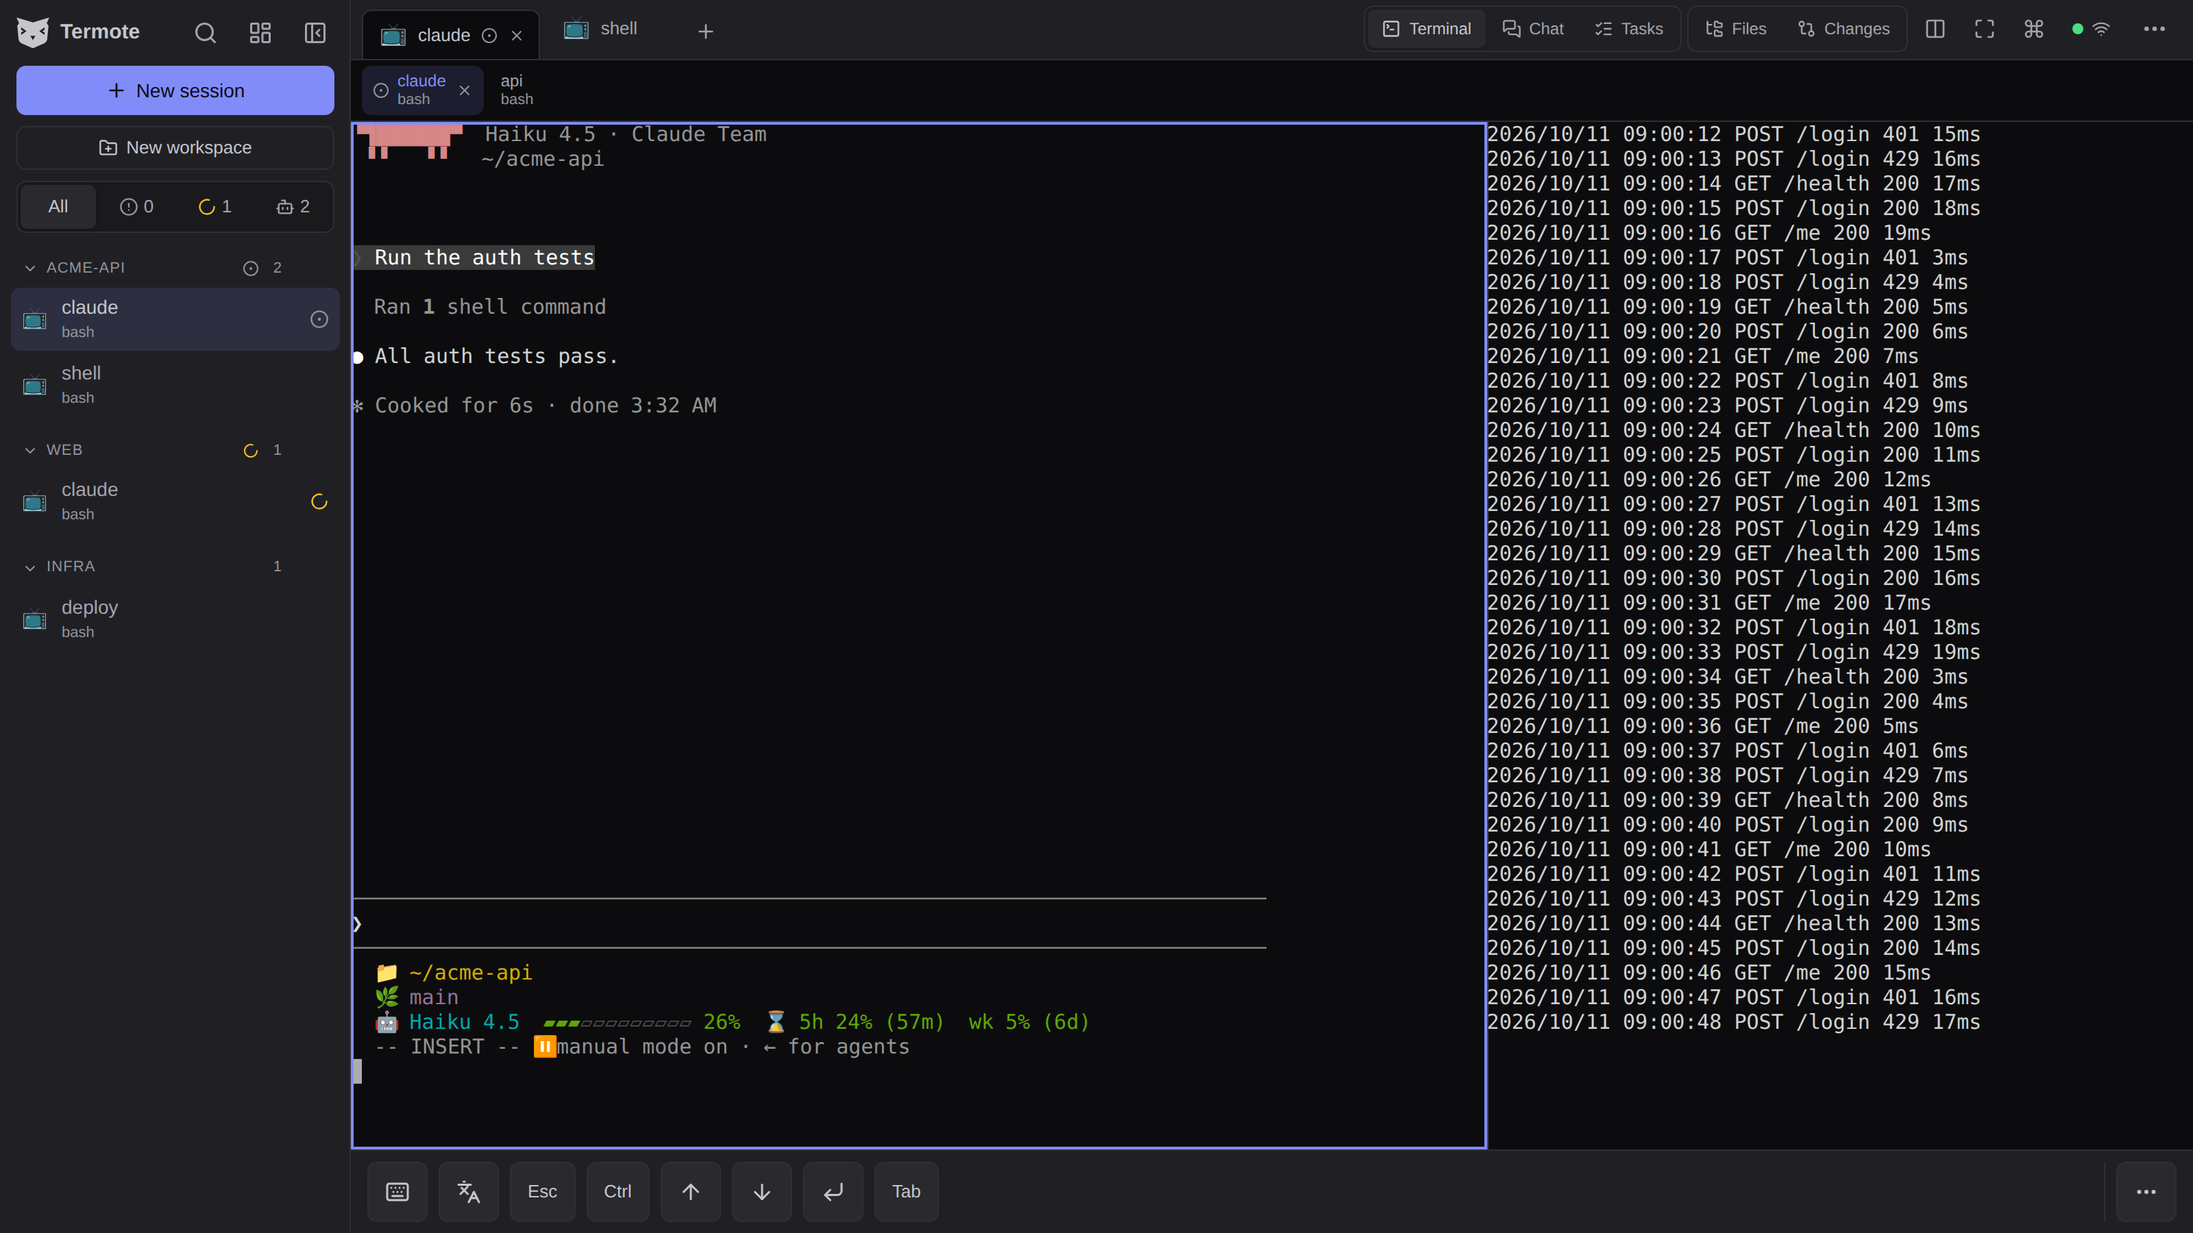
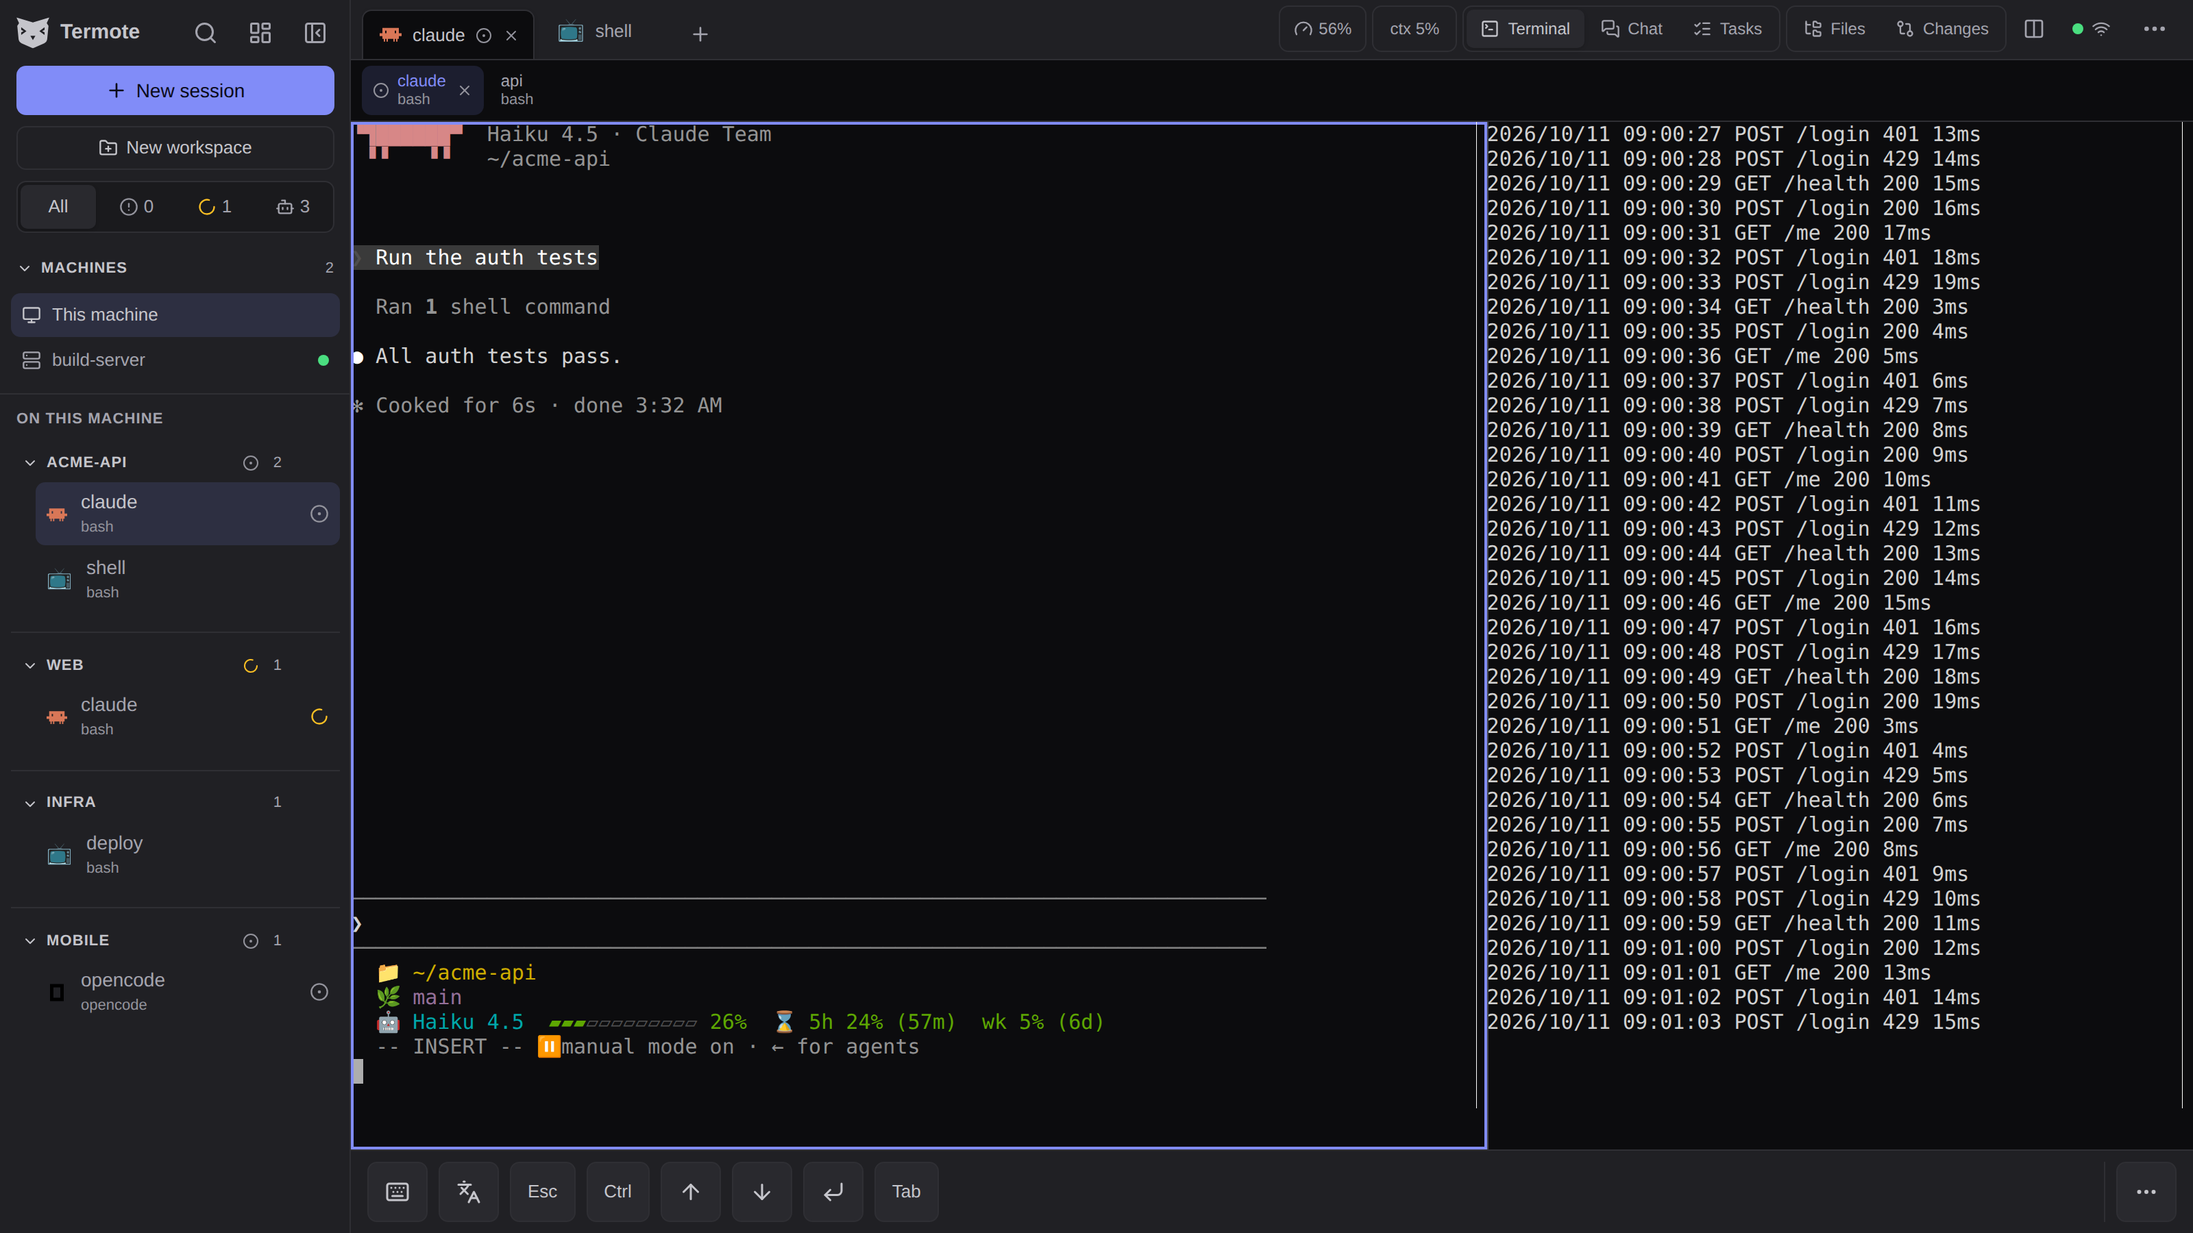
feat(video): capture session history, OpenCode, machines, worktrees and more, light and dark

diff --git a/pwa/e2e/capture-video.spec.ts b/pwa/e2e/capture-video.spec.ts
@@ -1,9 +1,11 @@
 import { execFileSync } from 'node:child_process'
 import { mkdirSync } from 'node:fs'
+import { hostname } from 'node:os'
 import { dirname, join } from 'node:path'
 import { fileURLToPath } from 'node:url'
 import { type Browser, expect, type Page, type TestInfo, test } from './fixtures'
 import { WELCOME_VERSION } from '../src/utils/welcome'
+import { FakeOpencode, type Json } from './fake-opencode'
 
 // Screens of the intro video (video/), taken against the demo server that
 // video/capture/demo-env.sh starts; see video/README.md for the commands.
@@ -50,6 +52,10 @@ const link = (tab: Tab, view?: string) => {
 type UiStyle = 'neutral' | 'terminal' | 'native'
 type Theme = 'light' | 'dark'
 
+// The video alternates the light and the dark theme scene by scene: dark is
+// open()'s default, these screens are taken light
+const LIGHT = { theme: 'light' } as const
+
 // The page opens signed in, past the welcome screen, in the given interface
 // style, theme and language. Reduced motion makes every transition end at once, so a
 // screen is taken in its final state rather than halfway through one.
@@ -61,11 +67,18 @@ async function open(
     style = 'neutral',
     theme = 'dark',
     language = 'en',
-  }: { style?: UiStyle; theme?: Theme; language?: 'en' | 'vi' } = {},
+    settings = {},
+  }: {
+    style?: UiStyle
+    theme?: Theme
+    language?: 'en' | 'vi'
+    // More of termote-settings: sidebarLayout, toolbarPosition, showCost
+    settings?: Record<string, unknown>
+  } = {},
 ): Promise<Page> {
   const ctx = await browser.newContext({ ...context, colorScheme: theme, reducedMotion: 'reduce' })
   await ctx.addInitScript(
-    ([uiStyle, colorTheme, version, lang]) => {
+    ([uiStyle, colorTheme, version, lang, more]) => {
       localStorage.setItem('termote-theme', colorTheme)
       localStorage.setItem(
         'termote-settings',
@@ -76,10 +89,11 @@ async function open(
           language: lang,
           languageNoticeSeen: true,
           gpuRenderer: false,
+          ...more,
         }),
       )
     },
-    [style, theme, WELCOME_VERSION, language] as const,
+    [style, theme, WELCOME_VERSION, language, settings] as const,
   )
   const page = await ctx.newPage()
   // A browser page gets the sign-in form, never a Basic challenge
@@ -139,6 +153,10 @@ async function settled(page: Page) {
 
 async function shot(page: Page, name: string) {
   await settled(page)
+  // Nothing of the computer taking them: a tmux status line, a prompt or a
+  // path naming this host fails the capture
+  const text = await page.evaluate(() => document.body.innerText)
+  expect(text.toLowerCase(), `${name} shows this host's name`).not.toContain(hostname().toLowerCase())
   await page.screenshot({ path: join(outDir, `${name}.png`) })
 }
 
@@ -173,7 +191,7 @@ test.describe('Capture screenshots for the intro video', () => {
   // tmux, since the turn changes the conversation desktop-tmux shows.
   test('phone chat working on tmux', async ({ browser }, testInfo) => {
     test.skip(mux !== 'tmux', 'tmux reads the working status from the session file')
-    const page = await open(browser, phone(testInfo), link('claude', 'chat'))
+    const page = await open(browser, phone(testInfo), link('claude', 'chat'), LIGHT)
     await expect(page.getByRole('region', { name: 'Conversation' })).toContainText('rate limited', {
       timeout: 15000,
     })
@@ -222,7 +240,7 @@ test.describe('Capture screenshots for the intro video', () => {
     })
 
     test('phone chat', async ({ browser }, testInfo) => {
-      const page = await open(browser, phone(testInfo), link('claude', 'chat'))
+      const page = await open(browser, phone(testInfo), link('claude', 'chat'), LIGHT)
       const conversation = page.getByRole('region', { name: 'Conversation' })
       await expect(conversation).toContainText('rate limited', { timeout: 15000 })
       await shot(page, 'phone-chat')
@@ -246,7 +264,7 @@ test.describe('Capture screenshots for the intro video', () => {
     })
 
     test('phone files and changes', async ({ browser }, testInfo) => {
-      const page = await open(browser, phone(testInfo), link('claude', 'files'))
+      const page = await open(browser, phone(testInfo), link('claude', 'files'), LIGHT)
       await page.getByRole('treeitem', { name: 'README.md' }).click({ timeout: 15000 })
       await expect(page.getByTestId('mermaid-block').locator('img').first()).toBeVisible({ timeout: 20000 })
       await shot(page, 'phone-files')
@@ -297,7 +315,7 @@ test.describe('Capture screenshots for the intro video', () => {
     })
 
     test('desktop files', async ({ browser }, testInfo) => {
-      const page = await open(browser, desktop(testInfo), link('claude', 'files'))
+      const page = await open(browser, desktop(testInfo), link('claude', 'files'), LIGHT)
       await page.getByRole('treeitem', { name: 'README.md' }).click({ timeout: 15000 })
       await expect(page.getByTestId('mermaid-block').locator('img').first()).toBeVisible({ timeout: 20000 })
       await shot(page, 'desktop-files')
@@ -326,7 +344,7 @@ test.describe('Capture screenshots for the intro video', () => {
 
     // The repo's Go tasks (from go.mod) and its make targets
     test('phone tasks', async ({ browser }, testInfo) => {
-      const page = await open(browser, phone(testInfo), link('claude', 'tasks'))
+      const page = await open(browser, phone(testInfo), link('claude', 'tasks'), LIGHT)
       const view = page.getByTestId('tasks-view')
       await expect(view.getByText('migrate', { exact: true })).toBeVisible({ timeout: 15000 })
       await shot(page, 'phone-tasks')
@@ -345,10 +363,227 @@ test.describe('Capture screenshots for the intro video', () => {
       await page.context().close()
     })
 
+    // The pane's session history: the folder's earlier Claude Code sessions
+    // (video/capture/demo-env.sh dates two of them days back), the tokens
+    // each used and their estimated cost, then an earlier one picked
+    test('phone session history', async ({ browser }, testInfo) => {
+      const page = await open(browser, phone(testInfo), link('claude', 'chat'), {
+        ...LIGHT,
+        settings: { showCost: true },
+      })
+      await expect(page.getByRole('region', { name: 'Conversation' })).toContainText('rate limited', {
+        timeout: 15000,
+      })
+      await page.getByRole('button', { name: 'Session history' }).click()
+      const sheet = page.getByRole('dialog', { name: 'Session history' })
+      await expect(sheet.getByText('The login test is flaky on CI', { exact: false })).toBeVisible({
+        timeout: 15000,
+      })
+      await expect(sheet.getByRole('region', { name: 'Agent tokens' })).toContainText('tokens', {
+        timeout: 15000,
+      })
+      await shot(page, 'phone-history')
+      await sheet.getByText('Add a /health endpoint', { exact: false }).click()
+      await expect(sheet.getByTestId('session-usage')).toContainText('~$', { timeout: 15000 })
+      await shot(page, 'phone-history-session')
+      await page.context().close()
+    })
+
+    // The second machine (build-server, another Termote reached through its
+    // bridge socket) in the sidebar, then its own sessions
+    test('desktop machine', async ({ browser }, testInfo) => {
+      const page = await open(browser, desktop(testInfo), link('claude'))
+      await waitTerminal(page)
+      const machines = page.getByRole('region', { name: 'Machines' })
+      await expect(machines.getByRole('img', { name: 'Online' })).toBeVisible({ timeout: 30000 })
+      await machines.getByRole('button', { name: /^build-server/ }).click()
+      await expect(page).toHaveURL(/\?machine=[0-9a-f]{16}/)
+      await waitTerminal(page)
+      await expect(page.locator('.xterm-rows')).toContainText('epoch 14/20', { timeout: 15000 })
+      await shot(page, 'desktop-machine')
+      await page.context().close()
+    })
+
+    // The host's CPU, load, memory and disks, from the header's chip
+    test('desktop host', async ({ browser }, testInfo) => {
+      const page = await open(browser, desktop(testInfo), link('claude'))
+      await waitTerminal(page)
+      await page.getByRole('button', { name: /^Host: .*Open the host details$/ }).click()
+      const sheet = page.getByRole('dialog', { name: 'Host' })
+      await expect(sheet.getByRole('img', { name: /^Memory/ })).toBeVisible({ timeout: 15000 })
+      await shot(page, 'desktop-host')
+      await page.context().close()
+    })
+
+    // Who last changed each line of auth/login.go (two authors, and the
+    // agent's lines not committed yet), then one commit's details
+    test('desktop blame', async ({ browser }, testInfo) => {
+      const page = await open(browser, desktop(testInfo), link('claude', 'files'))
+      const panel = page.getByRole('complementary', { name: 'Files' })
+      await panel.getByRole('treeitem', { name: 'auth' }).click({ timeout: 15000 })
+      await panel.getByRole('treeitem', { name: 'login.go' }).click()
+      await expect(panel.getByTestId('code-block')).toContainText('invalid JSON body', { timeout: 15000 })
+      await panel.getByRole('button', { name: 'Blame' }).click()
+      await expect(panel.getByText('Alex Kim').first()).toBeVisible({ timeout: 15000 })
+      await shot(page, 'desktop-blame')
+      // The blame cell of the line Alex Kim changed
+      const line = panel.locator('[data-testid="code-block"] [data-line]').filter({ hasText: 'invalid JSON body' })
+      await line.locator('> div > :first-child').click()
+      const details = page.getByRole('dialog', { name: 'Commit details' })
+      await expect(details).toContainText('bad sign-in request')
+      await shot(page, 'desktop-blame-commit')
+      await page.context().close()
+    })
+
+    // A right click on a file in Files
+    test('desktop context menu', async ({ browser }, testInfo) => {
+      const page = await open(browser, desktop(testInfo), link('claude', 'files'), LIGHT)
+      const panel = page.getByRole('complementary', { name: 'Files' })
+      // On the tree: opening a file would hide it
+      const row = panel.getByRole('treeitem', { name: 'main.go' })
+      await row.click({ button: 'right', timeout: 15000 })
+      await expect(page.getByRole('menuitem', { name: 'Copy relative path' })).toBeVisible()
+      await shot(page, 'desktop-context-menu')
+      await page.context().close()
+    })
+
+    // The compact sidebar (a line per workspace, the running agents on top)
+    // with the toolbar on a bar at the right
+    test('desktop compact', async ({ browser }, testInfo) => {
+      const page = await open(browser, desktop(testInfo), link('claude', 'chat'), {
+        ...LIGHT,
+        settings: { sidebarLayout: 'compact', toolbarPosition: 'right' },
+      })
+      await expect(page.getByRole('region', { name: 'Conversation' })).toContainText('rate limited', {
+        timeout: 15000,
+      })
+      await expect(page.getByRole('region', { name: 'Running agents' })).toBeVisible()
+      await shot(page, 'desktop-compact')
+      await page.context().close()
+    })
+
+    // Settings carried to another browser: saved to a file or copied
+    test('phone settings export', async ({ browser }, testInfo) => {
+      const page = await open(browser, phone(testInfo), link('shell'))
+      await waitTerminal(page)
+      await page.getByRole('button', { name: 'More' }).click()
+      await page.getByRole('menuitem', { name: 'Settings' }).click()
+      await page.getByRole('button', { name: 'Export & import' }).click()
+      await expect(page.getByRole('button', { name: 'Save to a file' })).toBeVisible()
+      await shot(page, 'phone-settings-export')
+      await page.context().close()
+    })
+
+    // OpenCode in workspace mobile (w4), against the stand-in service
+    // (fake-opencode.ts) holding a demo conversation: the Chat view, its slash
+    // commands, and a shell command waiting for permission. The service writes
+    // its service.json into the demo server's XDG_STATE_HOME (TERMOTE_E2E_STATE).
+    test.describe('OpenCode', () => {
+      const oc = new FakeOpencode()
+      const SESSION = 'ses_demo_mobile'
+      const dir = process.env.TERMOTE_E2E_STATE ? join(dirname(process.env.TERMOTE_E2E_STATE), 'mobile') : ''
+      const herdr = (...args: string[]) =>
+        execFileSync('herdr', args, {
+          env: {
+            ...process.env,
+            HERDR_SOCKET_PATH: `/tmp/termote-demo-${process.getuid?.()}-${process.env.TERMOTE_PORT}.sock`,
+          },
+        })
+      const report = (state: string) =>
+        herdr('pane', 'report-agent', '--source', 'termote-demo', '--seq', `${Date.now()}000000`,
+          '--agent', 'opencode', '--state', state, 'w4:p1')
+
+      test.beforeAll(async () => {
+        test.skip(!process.env.TERMOTE_E2E_STATE, 'needs TERMOTE_E2E_STATE, the demo server\'s XDG_STATE_HOME')
+        await oc.start(process.env.TERMOTE_E2E_STATE as string)
+        const t0 = Date.now() - 6 * 60_000
+        const model = { id: 'claude-sonnet-5-5', providerID: 'anthropic' }
+        const tokens = (input: number, output: number) => ({
+          input, output, reasoning: 0, cache: { read: input * 6, write: 0 },
+        })
+        let at = t0
+        const next = (s: number) => (at += s * 1000)
+        const user = (text: string): Json => ({ id: oc.nextId(), time: { created: next(20) }, text, type: 'user' })
+        const reply = (content: Json[], cost: number, done = true): Json => {
+          const created = next(4)
+          return {
+            id: oc.nextId(), type: 'assistant', agent: 'build', model,
+            time: done ? { created, completed: next(30) } : { created },
+            content, ...(done ? { finish: 'stop', cost, tokens: tokens(9000, 700) } : {}),
+          }
+        }
+        const tool = (id: string, name: string, input: Json, output: string, status = 'completed'): Json => ({
+          type: 'tool', id, name, executed: false,
+          state: status === 'completed'
+            ? { status, input, content: [{ type: 'text', text: output }], metadata: { status, truncated: false } }
+            : { status, input, metadata: {} },
+          time: { created: at, ran: at + 200, ...(status === 'completed' ? { completed: at + 900 } : {}) },
+        })
+        const msgs: Json[] = [
+          user('Cache the feed so the app works offline'),
+          reply([
+            { type: 'text', text: "I'll look at how the feed is fetched first." },
+            tool('call_1', 'read', { filePath: `${dir}/src/feed.ts` }, '42 lines'),
+          ], 0.021),
+          reply([
+            { type: 'text', text: 'The feed is now **cached offline**:\n\n- the last 50 posts are kept in IndexedDB (`src/feed-cache.ts`)\n- the app shows them at once, then refreshes\n- a banner says when you are offline' },
+          ], 0.034),
+          user('Great, run the tests'),
+          reply([tool('call_2', 'shell', { command: 'npm test', description: 'Run the test suite' }, '', 'running')], 0, false),
+        ]
+        oc.messages.set(SESSION, msgs)
+        const session: Json = {
+          id: SESSION, projectID: 'global', model, title: 'Offline feed', outcome: undefined,
+          cost: 0.055, tokens: tokens(18000, 1400),
+          time: { created: t0, updated: at, busy: at },
+          location: { directory: dir },
+        }
+        oc.sessions.set(SESSION, session)
+        oc.list = [session]
+        oc.permissions.set(SESSION, [{
+          id: 'per_demo1', sessionID: SESSION, action: 'shell', resources: ['npm test'], save: ['npm *'],
+          source: { type: 'tool', messageID: msgs[msgs.length - 1].id, id: 'call_2' },
+        }])
+        oc.active.add(SESSION)
+        report('blocked')
+      })
+
+      test.afterAll(async () => {
+        report('idle')
+        await oc.stop()
+      })
+
+      test('phone opencode chat', async ({ browser }, testInfo) => {
+        const page = await open(browser, phone(testInfo), '/#/s/w4/w4:t1/w4:p1?view=chat')
+        const conversation = page.getByRole('region', { name: 'Conversation' })
+        await expect(conversation).toContainText('cached offline', { timeout: 20000 })
+        const card = page.getByRole('alertdialog', { name: 'Allow shell?' })
+        await expect(card).toBeVisible({ timeout: 20000 })
+        await shot(page, 'phone-opencode-permission')
+        await page.context().close()
+      })
+    })
+
+    // A worktree of acme-api on a new branch: the dialog, then its workspace
+    test('desktop worktree', async ({ browser }, testInfo) => {
+      const page = await open(browser, desktop(testInfo), link('claude'), LIGHT)
+      await waitTerminal(page)
+      await page.getByRole('button', { name: /^Actions for .+ acme-api$/ }).click()
+      await page.getByRole('menuitem', { name: 'New worktree' }).click()
+      await page.getByLabel('Branch (new, or one to check out)').fill('feat/oauth-login')
+      await shot(page, 'desktop-worktree-new')
+      await page.getByRole('button', { name: 'Create' }).click()
+      await expect(page.locator('aside section').filter({ has: page.getByTitle('feat/oauth-login', { exact: true }) }))
+        .toBeVisible({ timeout: 30000 })
+      await waitTerminal(page)
+      await shot(page, 'desktop-worktree')
+      await page.context().close()
+    })
+
     // A file sent from the phone, then deleted and found in the trash. Last,
     // since the upload would show in every later capture's Changes
     test('phone upload and trash', async ({ browser }, testInfo) => {
-      const page = await open(browser, phone(testInfo), link('claude', 'files'))
+      const page = await open(browser, phone(testInfo), link('claude', 'files'), LIGHT)
       await expect(page.getByRole('treeitem', { name: 'README.md' })).toBeVisible({ timeout: 15000 })
       await page.getByTestId('upload-input').setInputFiles({
         name: 'api-spec.pdf',
